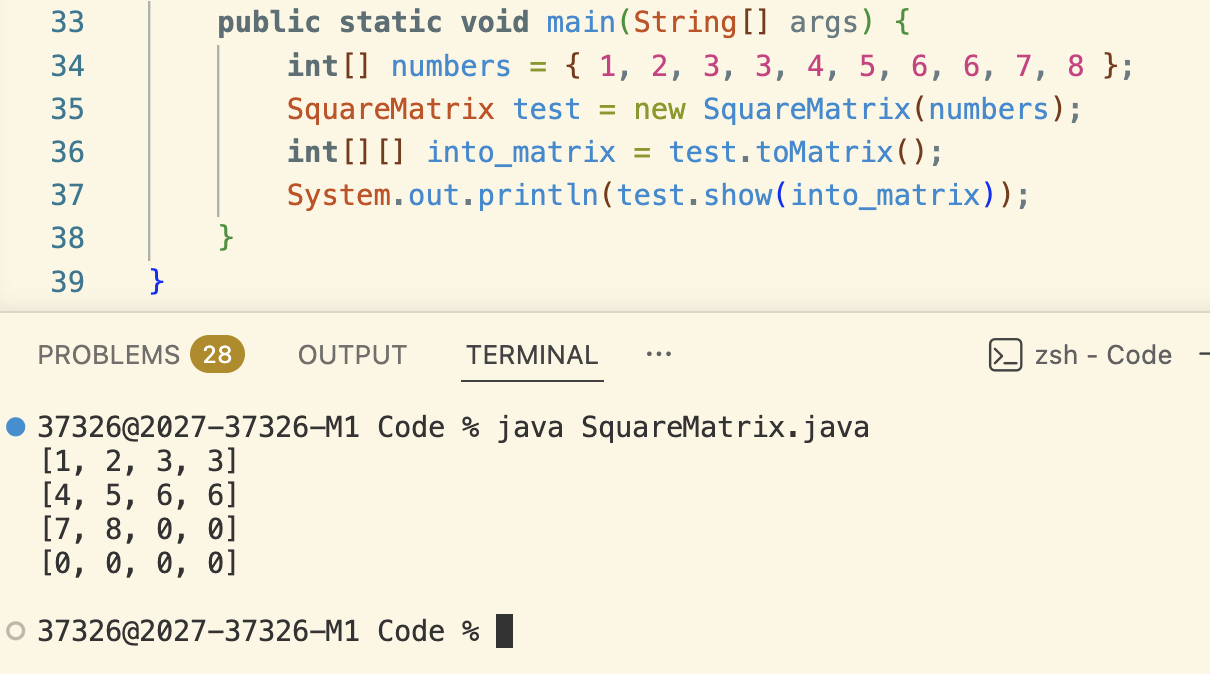
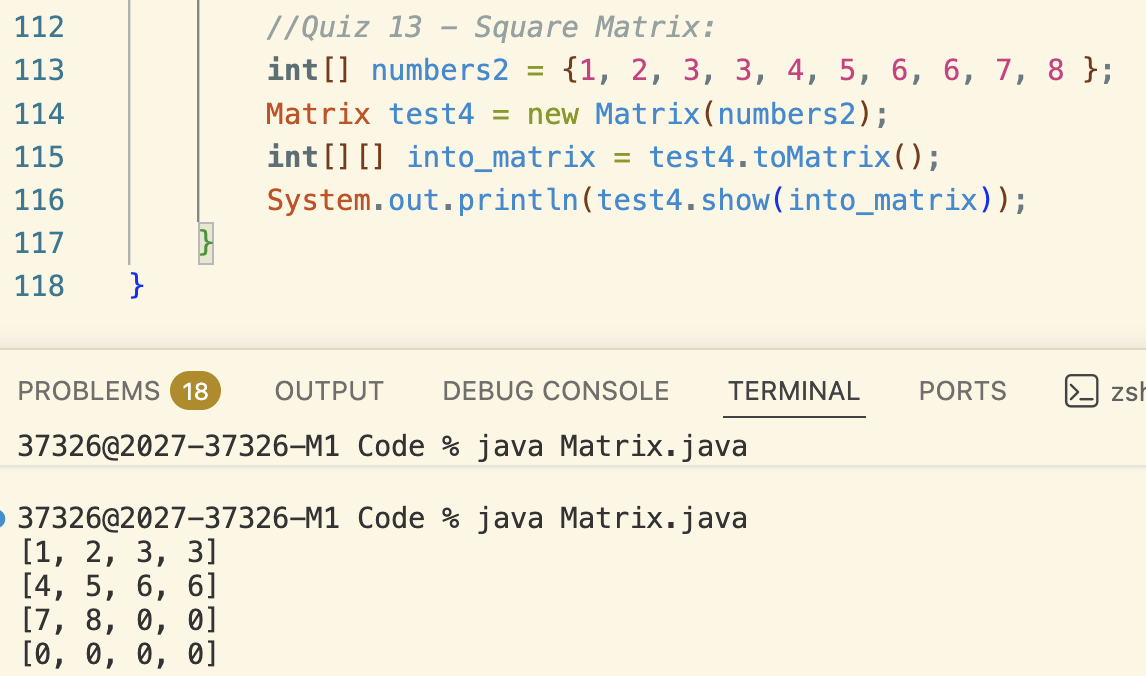
Updating Q13

diff --git a/Quizzes/Code/Matrix.java b/Quizzes/Code/Matrix.java
@@ -99,7 +99,7 @@ public class Matrix {
         int[][] i_matrix = test2.identity();
         System.out.println(test2.show(i_matrix));
         System.out.println();
-        */
+        
         
         //Quiz 12 - Vectorized Matrix:
         int[][] numbers = { {1, 2, 3, 3}, {4, 5, 6, 6}, {7, 8, 9, 9} };
@@ -107,6 +107,7 @@ public class Matrix {
         int[] vectorized_matrix = test3.vectorize();
         System.out.println(test3.show(vectorized_matrix));
         System.out.println();
+        */
 
         //Quiz 13 - Square Matrix:
         int[] numbers2 = {1, 2, 3, 3, 4, 5, 6, 6, 7, 8 };

diff --git a/Quizzes/quizzes.md b/Quizzes/quizzes.md
@@ -424,41 +424,21 @@ Create a method that receives a 1D array and builds a square matrix, use zero-pa
 
 ### Code Solution:
 ``` java
-import java.util.Arrays;
-
-public class SquareMatrix {
-    private int[] array;
-    private int [][] square;
-    private int s;
-
-    public SquareMatrix(int[] array) {
-        this.array = array;
-        s = (int) Math.sqrt(array.length);
-        if (s*s != array.length) {
-            s++;
-        }
-        square = new int[s][s];
+public int[][] toMatrix() {
+    int s = (int) Math.sqrt(array.length);
+    if (s*s != array.length) {
+        s++;
     }
-
-    public int[][] toMatrix() {
-        for (int i = 0; i < array.length ; i++) {
-            square[i/s][i%s] = array[i];
-        }
-        return square;
+    int[][] square = new int[s][s];
+    for (int i = 0; i < array.length ; i++) {
+        square[i/s][i%s] = array[i];
     }
-
-    public String show(int[][] matrix) {
-        String string = "";
-        for (int r = 0; r < matrix.length; r++) {
-            string += Arrays.toString(matrix[r]) + "\n";
-        }
-        return string;
-    }
+    return square;
 }
 ```
 
 ### Screenshot Proof:
-![alt text](Screenshots/Q13.png)
+![alt text](Screenshots/Q13.png?v=4.0)
 
 
 ## Quiz 14 - 13/10/26
